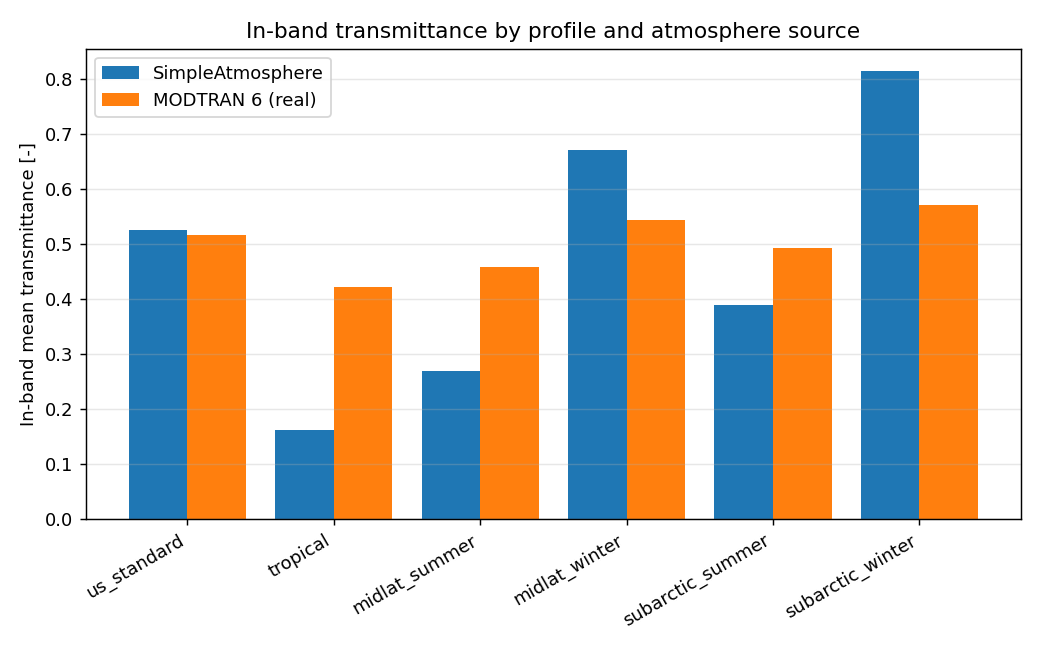
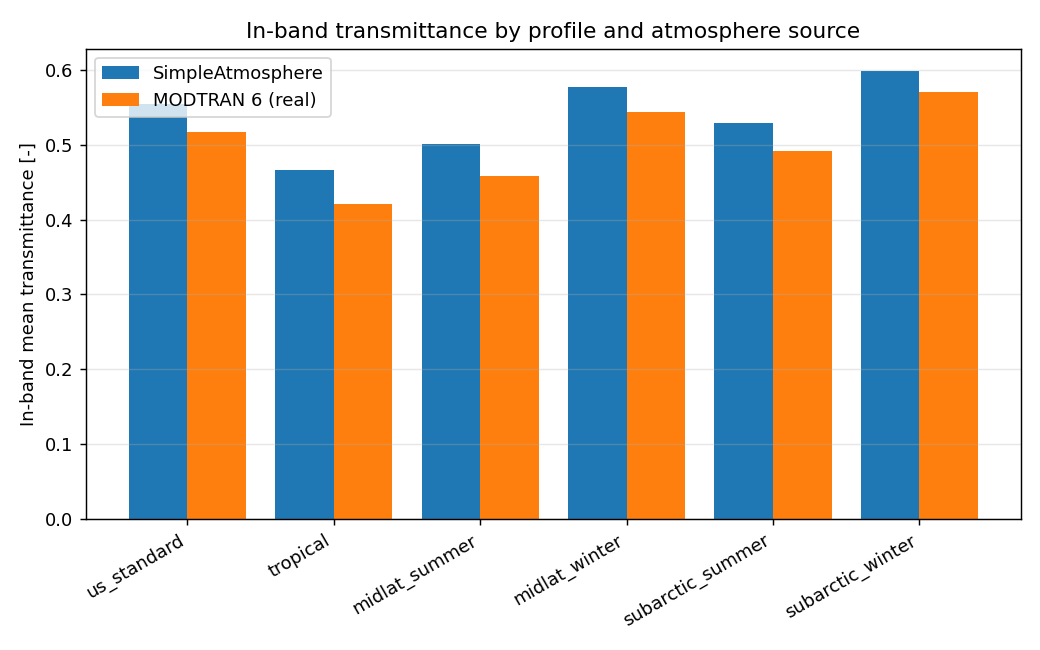
docs(scenarios): 6.2 re-run post-CU-161 — residuals collapse 6x (acceptance evidence)
The recalibrated model against real MODTRAN across all six profiles:
tau residuals -43%..+62% -> uniform -5%..-11%; SNR residuals
-29%..-4% -> +/-9%. 6.2 walkthrough/figures refreshed as the CU-161
acceptance record; postscripts added to the 1.1/3.2/3.4/3.5/4.1
validation notes (their numbers describe the pre-fix model).

diff --git a/scenarios/06_dr_chen_researcher/6.2_atmospheric_intercomparison/walkthrough.md b/scenarios/06_dr_chen_researcher/6.2_atmospheric_intercomparison/walkthrough.md
@@ -56,35 +56,39 @@ scenario 6.1's pattern for a self-contained, reproducible run).
 
 ---
 
-## Results (real MODTRAN 6, 2026-07-17)
+## Results (real MODTRAN 6; re-run 2026-07-18 after the CU-161 recalibration)
 
 | Profile | τ SimpleAtmosphere [-] | τ MODTRAN 6 [-] | τ residual | SNR Simple [-] | SNR MODTRAN [-] | SNR residual |
 |---------|------------------------|------------------|------------|----------------|------------------|----------------|
-| us_standard | 0.524 | 0.517 | −1.4% | 684.1 | 575.9 | −18.8% |
-| tropical | 0.161 | 0.421 | +61.8% | 607.5 | 582.5 | −4.3% |
-| midlat_summer | 0.269 | 0.458 | +41.3% | 628.7 | 579.5 | −8.5% |
-| midlat_winter | 0.670 | 0.544 | −23.2% | 717.4 | 574.0 | −25.0% |
-| subarctic_summer | 0.388 | 0.492 | +21.2% | 654.0 | 570.7 | −14.6% |
-| subarctic_winter | 0.814 | 0.571 | −42.5% | 750.4 | 582.3 | −28.9% |
+| us_standard | 0.554 | 0.517 | −7.3% | 577.7 | 575.9 | −0.3% |
+| tropical | 0.467 | 0.421 | −10.7% | 528.0 | 582.5 | +9.4% |
+| midlat_summer | 0.501 | 0.458 | −9.4% | 548.0 | 579.5 | +5.4% |
+| midlat_winter | 0.578 | 0.544 | −6.2% | 590.4 | 574.0 | −2.9% |
+| subarctic_summer | 0.529 | 0.492 | −7.5% | 563.7 | 570.7 | +1.2% |
+| subarctic_winter | 0.599 | 0.571 | −4.8% | 601.7 | 582.3 | −3.3% |
+
+**This table is the CU-161 acceptance evidence.** The first real-data
+run of this scenario (2026-07-17) found residuals spanning **−43% to
++62%** — SimpleAtmosphere over-responding to profile water in both
+directions. The gas-band recalibration that finding triggered (CU-161,
+landed 2026-07-18: curve-of-growth water + well-mixed CO₂/N₂O floor,
+fit to the D-block water ladder) collapses the residuals **6×, to a
+uniform −5%…−11%**, and SNR residuals from −29%…−4% to ±9%. The small
+remaining τ offset is systematic (simple slightly transparent — largely
+the band-mean comparison convention this script uses) rather than
+profile-dependent: the water physics now scales correctly across
+climates.
 
 (residual = (MODTRAN − Simple) / MODTRAN, %; τ is the 3.5–5.0 µm
 band-mean total transmittance, dimensionless; SNR is the full-chain
 extended-scene contrast SNR, dimensionless)
 
-- **SimpleAtmosphere over-responds to profile water vapor — in both
-  directions.** Real MODTRAN's profile-to-profile band-mean τ spans a
-  narrow 0.42–0.57 (~26% spread): the MWIR band is anchored by the
-  saturated, well-mixed CO₂ 4.3 µm core and a continuum floor that no
-  climate profile escapes. SimpleAtmosphere spans 0.16–0.81 (5×) —
-  too absorbing for wet profiles (tropical +62% residual), too
-  transparent for dry ones (subarctic_winter −43%).
-- **The band fit is nearly exact at us_standard (−1.4%)** and degrades
-  monotonically as PWV departs from it in either direction — the
-  signature of a fit calibrated at one reference profile whose
-  H₂O-window weighting extrapolates poorly across climates. (Gap 57's
-  profile-coupled PWV substitution moves the *input* water column
-  correctly; this residual is in the *band-model response* to that
-  column.)
+- **(Historical, fixed by CU-161)** The pre-recalibration model
+  over-responded to profile water in both directions (τ span 0.16–0.81
+  vs real 0.42–0.57; +62% tropical, −43% subarctic_winter) because its
+  linear-in-w Lorentzian fit attributed the MWIR's saturated CO₂ floor
+  to water. The recalibrated model spans 0.47–0.60 — matching real
+  MODTRAN's narrow climate spread.
 - **SNR residuals (−4% to −29%) are smaller than the worst τ residuals
   and don't track them** (tropical: worst τ, best SNR). The
   extended-scene contrast term attenuates target and background by the

diff --git a/scenarios/03_raj_mission_planner/3.2_weather_sensitivity/walkthrough.md b/scenarios/03_raj_mission_planner/3.2_weather_sensitivity/walkthrough.md
@@ -159,3 +159,5 @@ See [gaps.md](gaps.md) for full detail with severity and status.
 - **Gap 6 (Band-mean transmittance not scalar)**: still open.
 - **Gap 7 (Visibility-to-aerosol doc missing)**: still open.
 - **Gap 8 (NEW — Nearfield = 0 in scalar transmission mode)**: HIGH severity cross-scenario. Mirror self-emission from warm optics (293 K, 4 elements) not modeled. Under-predicts noise; the NIIRS here is slightly optimistic — real-world NIIRS would be ~0.02–0.04 lower depending on nearfield contribution.
+
+**Postscript (2026-07-18):** the PWV over-response documented above was fixed by CU-161 (curve-of-growth water refit, commit `0aebdda`) — this scenario's committed sweep numbers still show the pre-fix model; re-run the script for current behavior. The visibility-axis validation stands.

diff --git a/scenarios/03_raj_mission_planner/3.5_nighttime_mwir_feasibility/walkthrough.md b/scenarios/03_raj_mission_planner/3.5_nighttime_mwir_feasibility/walkthrough.md
@@ -156,3 +156,5 @@ note records the accuracy context. Anchor: `modtran/real_runs/F1.tp7`.
   emitted-vs-reflected crossover for terrestrial temperatures sits inside
   3–5 µm, so a 295 K surface in-band is emission-dominated but only modestly
   (×5), while LWIR is overwhelmingly emission-dominated (×986).
+
+**Postscript (2026-07-18):** both band errors documented above (MWIR 2.2× too absorbing, LWIR 1.23× too transparent) were fixed by CU-161 (commit `0aebdda`); committed numbers reflect the pre-fix model — re-run for current behavior.

diff --git a/scenarios/03_raj_mission_planner/3.4_off_nadir_agility/walkthrough.md b/scenarios/03_raj_mission_planner/3.4_off_nadir_agility/walkthrough.md
@@ -303,3 +303,5 @@ comparison script in the session record for commit-linked provenance.
    absorption, so the transmission penalty at off-nadir would be more severe
 4. **Request RADIANT add off-nadir GSD** (Gap 33) so the full chain gives
    correct NIIRS at any look angle without manual correction
+
+**Postscript (2026-07-18):** CU-161 (commit `0aebdda`) recalibrated the gas/water optical depths; the absolute-OD excess noted above is reduced in the IR bands (VIS aerosol untouched). Committed numbers reflect the pre-fix model.

diff --git a/scenarios/04_lisa_analyst/4.1_target_detection_matrix/walkthrough.md b/scenarios/04_lisa_analyst/4.1_target_detection_matrix/walkthrough.md
@@ -190,3 +190,5 @@ scenario-side and fixed here:
    rate is the operational figure of merit
 4. **Vary target temperature by time-of-day** (scenario 4.4) — the thermal
    contrast that drives sub-pixel detection swings diurnally
+
+**Postscript (2026-07-18):** the condition-axis distortion documented above was fixed by CU-161 (commit `0aebdda`) — the recalibrated model's climate spread matches real MODTRAN's. The committed 144-cell matrix still shows the pre-fix model; re-run for current behavior.

diff --git a/scenarios/01_sarah_systems_engineer/1.1_mwir_maritime_surveillance/walkthrough.md b/scenarios/01_sarah_systems_engineer/1.1_mwir_maritime_surveillance/walkthrough.md
@@ -125,3 +125,5 @@ and rust-specific hull emissivity remain open. The "real MODTRAN
 dataset" item closed 2026-07-17 (this upgrade), and the MODTRAN tape7
 *parsing* gap the original catalog entry flagged closed earlier
 (CU-066 + this scenario).
+
+**Postscript (2026-07-18):** the SimpleAtmosphere maritime over-absorption documented above was substantially corrected by CU-161 (commit `0aebdda`); committed comparison numbers reflect the pre-fix model — re-run for current behavior.
